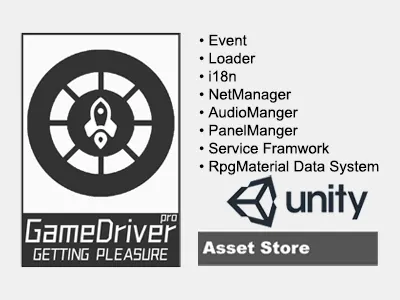
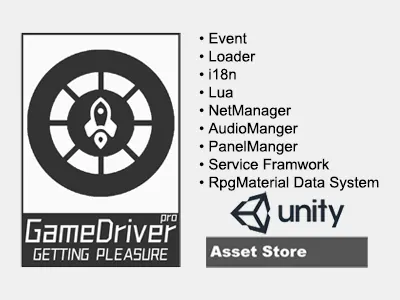
1. 更新GameDriver相关信息。

Changed region(s): [[0.48, 0.09, 0.96, 0.9]]

diff --git a/_portfolio/01-GameDriver_en.md b/_portfolio/01-GameDriver_en.md
@@ -9,6 +9,6 @@ Provide professional and well-expanded game development support, including: reso
 {:.list-inline} 
 
 + Render Pipeline (SRP) Compatibility: Built-in(**Compatible**)、URP(**Compatible**)、HDRP(（)**Compatible**)  
-+ Version: 1.0.3  
++ Version: 1.1.0  
 + Author: XUZHUOXI   
 

diff --git a/_portfolio/01-GameDriver_cn.md b/_portfolio/01-GameDriver_cn.md
@@ -9,5 +9,5 @@ lang: zh-CN
 {:.list-inline} 
 
 + 渲染管线兼容性： Built-in(**兼容**)、URP(**兼容**)、HDRP(**兼容**)  
-+ 版本：1.0.3   
++ 版本：1.1.0   
 + 作者： XUZHUOXI   
